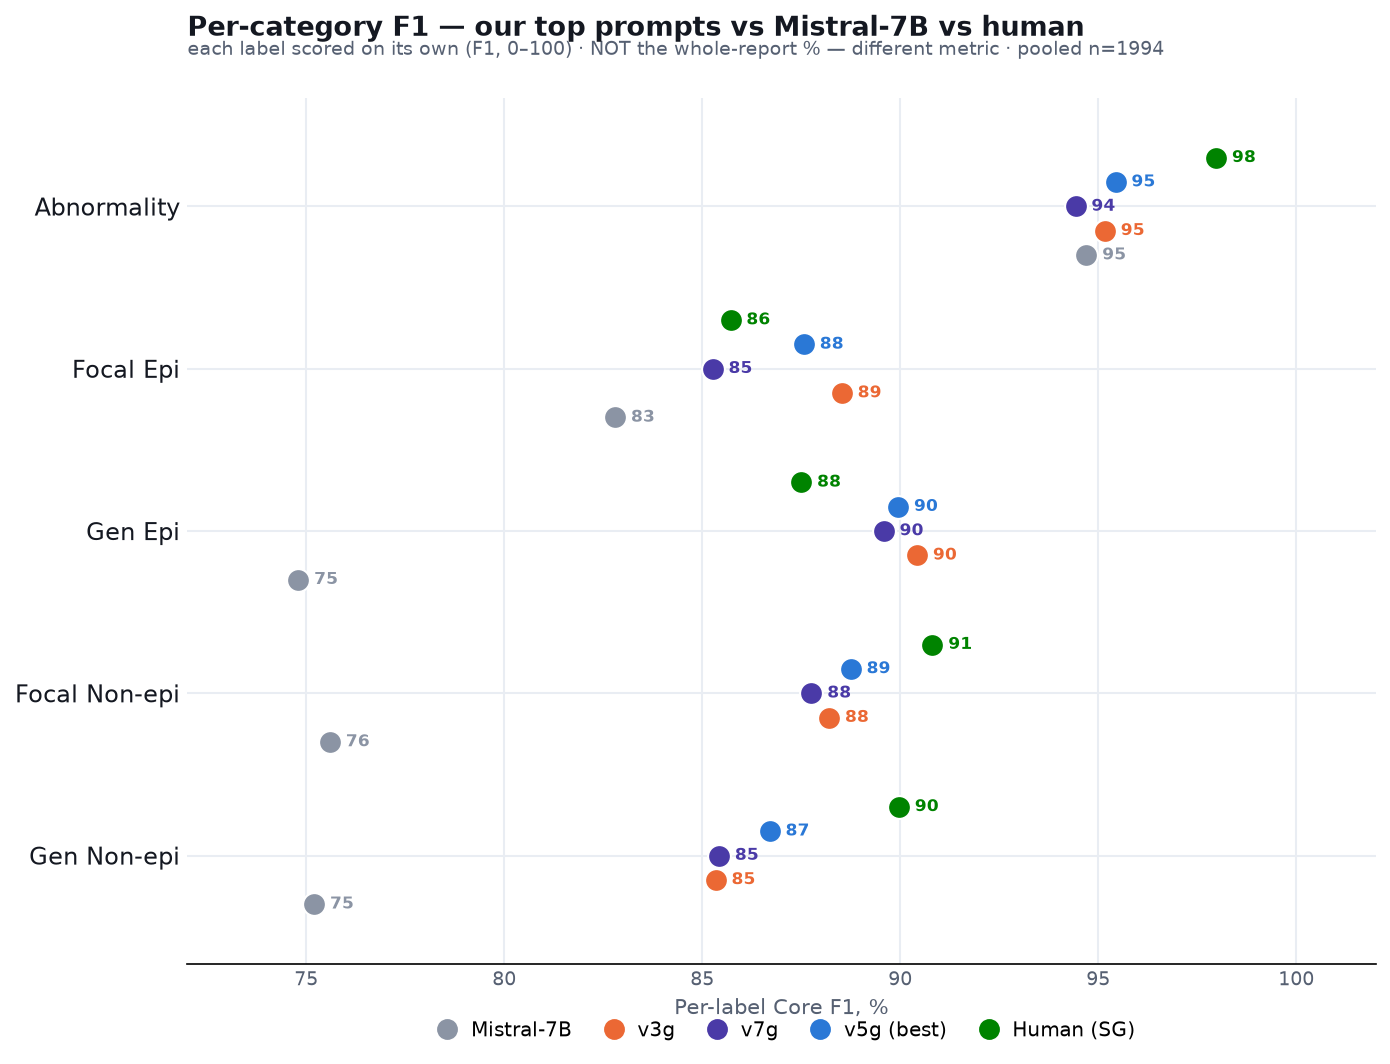
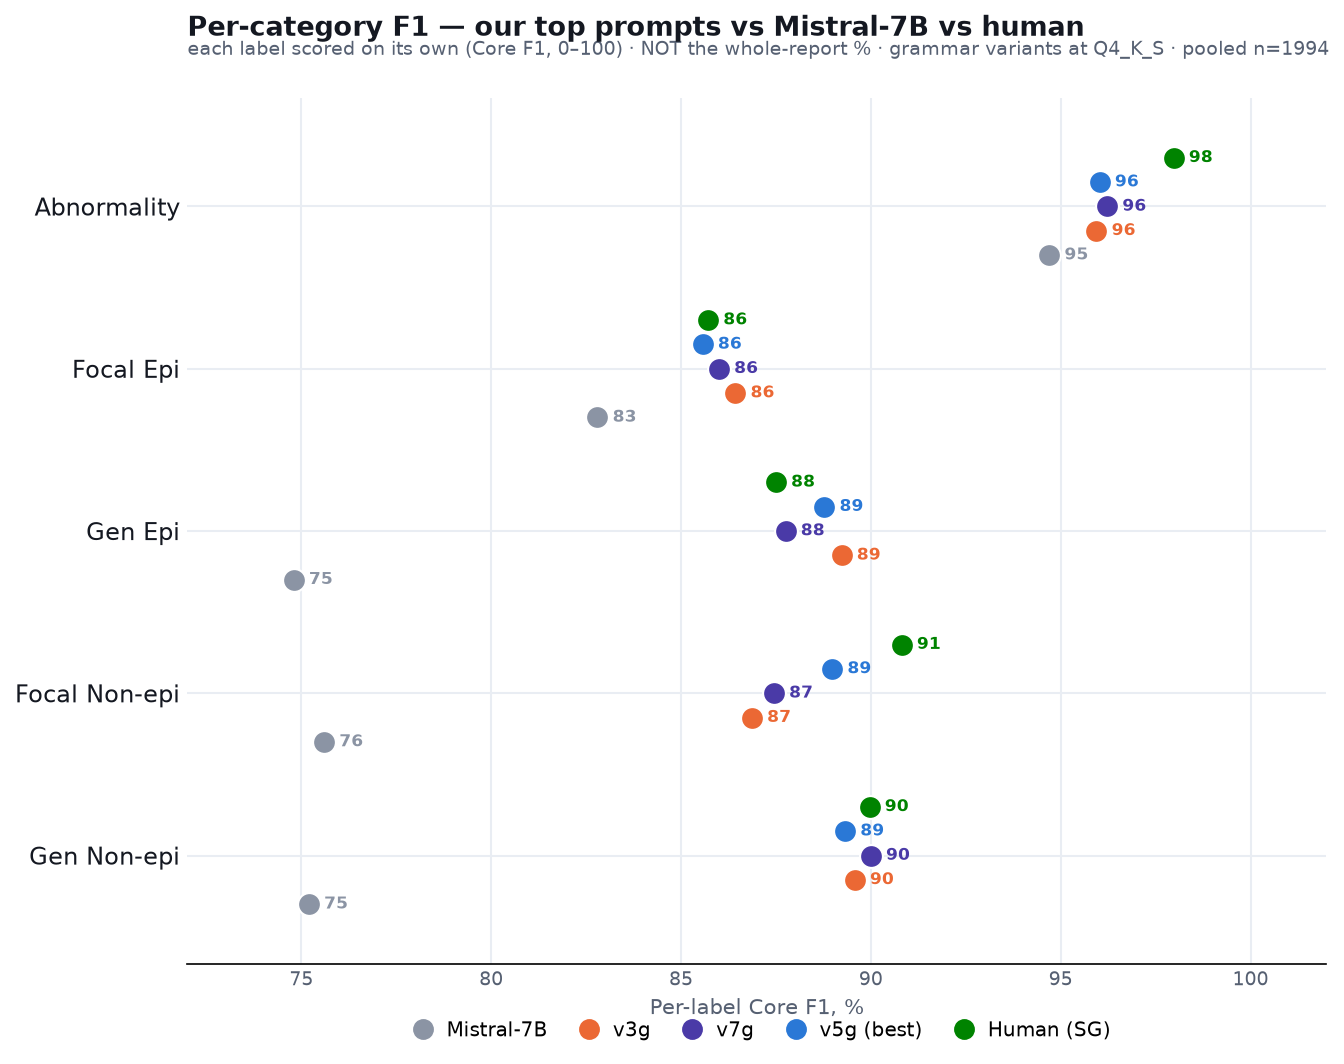
Make per-category chart use Q4 (match the Full-numbers table); label the quant to remove the chart/table mismatch

diff --git a/analysis/plot_all_prompts.py b/analysis/plot_all_prompts.py
@@ -110,7 +110,8 @@ def chart_bycat():
     # own sub-rows inside the band so every dot carries a value label. Each number is the
     # per-label Core F1 (0-100) — a single-label quality score, NOT the whole-report %.
     from matplotlib.lines import Line2D
-    v3g = pooled("v3g", "Q2"); v5g = pooled("v5g", "Q2"); v7g = pooled("v7g", "Q2")
+    # Q4 for the grammar variants — matches the Full-numbers table rows.
+    v3g = pooled("v3g", "Q4"); v5g = pooled("v5g", "Q4"); v7g = pooled("v7g", "Q4")
     series = [
         ("Mistral-7B", MISTRAL_F1,                              GREY),
         ("v3g",        [catf1(v3g, k, MODEL, LD) for k in KEYS], ORANGE),
@@ -146,8 +147,8 @@ def chart_bycat():
     ax.set_title("Per-category F1 — our top prompts vs Mistral-7B vs human",
                  color=INK, fontsize=13, fontweight="bold", loc="left", pad=30)
     ax.text(0, 1.045,
-            "each label scored on its own (F1, 0–100) · NOT the whole-report % — "
-            "different metric · pooled n=1994",
+            "each label scored on its own (Core F1, 0–100) · NOT the whole-report % · "
+            "grammar variants at Q4_K_S · pooled n=1994",
             transform=ax.transAxes, fontsize=9, color=INK2, va="bottom")
     fig.tight_layout(); fig.savefig(OUT / "all_prompts_bycat.png", bbox_inches="tight",
                                     facecolor="white")

diff --git a/reports/all_prompts.md b/reports/all_prompts.md
@@ -44,14 +44,16 @@ baseline, because dropping the detailed rules brings the over-calling straight b
 prompts (**v5g**, **v3g**, **v7g**), Mistral-7B, and the human annotator. Note these are a
 *different metric* from the first chart: the first chart's 87.6% is the share of reports
 with **all five** labels correct at once; here each number is the F1 of **one** label —
-so the two are not meant to match. Our prompts (blue / orange / violet)
-**cluster tightly together and sit far above Mistral (grey)** on the harder three classes
-(Gen Epi, Focal Non-epi, Gen Non-epi) — the gap to Mistral is 10–15 points there. Against
-the **human (green)** the cluster lands right at the human level: **matching or beating
-it on the epileptiform categories** (Focal Epi, Gen Epi) and trailing only on Abnormality
-and the slowing classes — exactly where the two humans disagree most. That the three
-prompts land so close to each other is itself the point: the result is stable across our
-top variants, not a fluke of one prompt.
+so the two are not meant to match. (Grammar variants shown at **Q4_K_S** — the same quant
+as the Full-numbers table, so the dots match those rows exactly.) Our prompts (blue /
+orange / violet) **cluster tightly together and sit far above Mistral (grey)** on the
+harder three classes (Gen Epi, Focal Non-epi, Gen Non-epi) — the gap to Mistral is 13–14
+points there. Against the **human (green)** the cluster sits right at the human level:
+**at or slightly above it on the epileptiform classes** (Focal Epi ~86 vs 86, Gen Epi
+~88–89 vs 88) and on **Gen Non-epi** (~89–90 vs 90), trailing only on **Abnormality** and
+**Focal Non-epi** — where even the two humans disagree most. That the three prompts land
+so close to each other is itself the point: the result is stable across our top variants,
+not a fluke of one prompt.
 
 ## Why we win — confidence, not just direction
 
